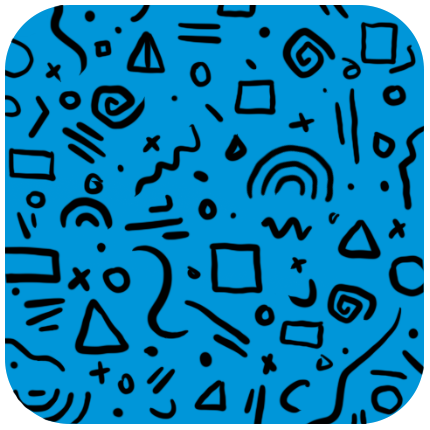
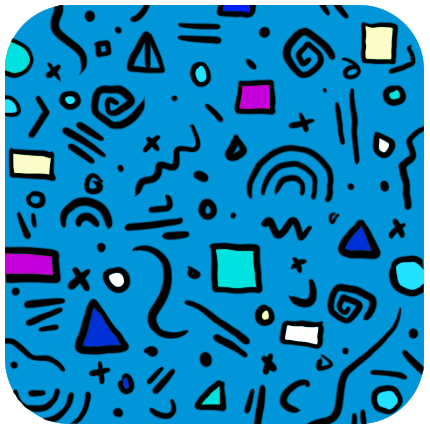
stop timer when game is won, changed layout, added and altered images

diff --git a/src/index.js b/src/index.js
@@ -1,164 +1,170 @@
 document.addEventListener('DOMContentLoaded',() =>{
     
-    //card options
-    const cardArray = [
-        {
-            name: 'car',
-            img: 'src/images/car.png'
-        },
-        {
-            name: 'earbuds',
-            img: 'src/images/earbuds.png'
-        },
-        {
-            name: 'glasses',
-            img: 'src/images/glasses.png'
-        },
-        {
-            name: 'key',
-            img: 'src/images/key.png'
-        },
-        {
-            name: 'phone',
-            img: 'src/images/phone.png'
-        },
-        {
-            name: 'wallet',
-            img: 'src/images/wallet.png'
-        },
+//card options
+const cardArray = [
+    {
+        name: 'car',
+        img: 'images/car.png'
+    },
+    {
+        name: 'earbuds',
+        img: 'images/earbuds.png'
+    },
+    {
+        name: 'glasses',
+        img: 'images/glasses.png'
+    },
+    {
+        name: 'key',
+        img: 'images/key.png'
+    },
+    {
+        name: 'phone',
+        img: 'images/phone.png'
+    },
+    {
+        name: 'wallet',
+        img: 'images/wallet.png'
+    },
 
-        {
-            name: 'car',
-            img: 'src/images/car.png'
-        },
-        {
-            name: 'earbuds',
-            img: 'src/images/earbuds.png'
-        },
-        {
-            name: 'glasses',
-            img: 'src/images/glasses.png'
-        },
-        {
-            name: 'key',
-            img: 'src/images/key.png'
-        },
-        {
-            name: 'phone',
-            img: 'src/images/phone.png'
-        },
-        {
-            name: 'wallet',
-            img: 'src/images/wallet.png'
-        }
-
-    ]
-
-    cardArray.sort(() => 0.5 - Math.random())
-    console.log(cardArray)
-
-    const grid = document.querySelector('.grid')
-    const resultDisplay = document.querySelector('#winner')
-    const attemptsHolder = document.querySelector('.attemptsHolder')
-    const foundHolder = document.querySelector('.foundHolder')
-    const timerHolder = document.querySelector('.timerHolder')
-    const cardsInGame = 12
- 
-    let attempts = 0
-    let foundCards = 0
-    attemptsHolder.textContent = attempts
-    foundHolder.textContent = foundCards
-    timerHolder.innerHTML = "0 mins 0 secs"
-  
-    second = 0;
-    minute = 0;
-    hour = 0;
-    let cardsChosen = []
-    let cardsChosenIds = []
-    let cardsWon = []
-    
-
-    //creating the board
-    function createBoard(){
-        for (let i = 0; i < cardArray.length; i++){
-            const card = document.createElement('img')
-            card.setAttribute('src', 'src/images/blank.png')
-            card.setAttribute('data-id', i)
-            card.addEventListener('click', flipCard)
-            grid.appendChild(card)
-        }
+    {
+        name: 'car',
+        img: 'images/car.png'
+    },
+    {
+        name: 'earbuds',
+        img: 'images/earbuds.png'
+    },
+    {
+        name: 'glasses',
+        img: 'images/glasses.png'
+    },
+    {
+        name: 'key',
+        img: 'images/key.png'
+    },
+    {
+        name: 'phone',
+        img: 'images/phone.png'
+    },
+    {
+        name: 'wallet',
+        img: 'images/wallet.png'
     }
 
-    
+]
+
+cardArray.sort(() => 0.5 - Math.random())
+console.log(cardArray)
+
+const grid = document.querySelector('.grid')
+const resultDisplay = document.querySelector('#winner')
+const attemptsHolder = document.querySelector('.attemptsHolder')
+const foundHolder = document.querySelector('.foundHolder')
+const timerHolder = document.querySelector('.timerHolder')
+const cardsInGame = 12
+
+let attempts = 0
+let foundCards = 0
+attemptsHolder.textContent = attempts
+foundHolder.textContent = foundCards
+timerHolder.innerHTML = "0m 0s"
+
+second = 0;
+minute = 0;
+hour = 0;
+let cardsChosen = []
+let cardsChosenIds = []
+let cardsWon = []
+
+
+//creating the board
+function createBoard(){
+    for (let i = 0; i < cardArray.length; i++){
+        const card = document.createElement('img')
+        card.classList.add('card')
+        card.setAttribute('src', 'images/blank.png')
+        card.setAttribute('data-id', i)
+        card.addEventListener('click', flipCard)
+        grid.appendChild(card)
+    }
+}
+
+
 
 //flip the card
-    function flipCard() {
-        let cardId = this.getAttribute('data-id')
-        cardsChosen.push(cardArray[cardId].name)
-        cardsChosenIds.push(cardId)
-        this.setAttribute('src', cardArray[cardId].img)
-        if (cardsChosen.length === 2){
-            setTimeout(checkForMatch, 500)
-        }
+function flipCard() {
+    let cardId = this.getAttribute('data-id')
+    cardsChosen.push(cardArray[cardId].name)
+    cardsChosenIds.push(cardId)
+    this.setAttribute('src', cardArray[cardId].img)
+    if (cardsChosen.length === 2){
+        setTimeout(checkForMatch, 500)
     }
-
-//check for matches
-    function checkForMatch() {
-        attempts++
-        const cards = document.querySelectorAll('img')
-        const optionOneId = cardsChosenIds[0]
-        const optionTwoId = cardsChosenIds[1]
-
-        if (optionOneId == optionTwoId)
-        {
-            alert('You have clicked the same image!')
-            cards[optionOneId].setAttribute('src', 'src/images/blank.png')
-            cards[optionTwoId].setAttribute('src', 'src/images/blank.png')
-        } else if (cardsChosen[0] == cardsChosen[1]){
-            foundCards++
-            cards[optionOneId].removeEventListener('click', flipCard)
-            cards[optionTwoId].removeEventListener('click', flipCard)
-            cardsWon.push(cardsChosen)
-        } else {
-            cards[optionTwoId].setAttribute('src', 'src/images/blank.png')
-            cards[optionOneId].setAttribute('src', 'src/images/blank.png')
-        }
-  
-        cardsChosen = []
-        cardsChosenIds = []
-        attemptsHolder.textContent = attempts
-        foundHolder.textContent = foundCards
-      
-        if (attempts == 1 || foundCards == 1) {
-            startTimer()
-        }
-
-        var second = 0
-            minute = 0
-            hour = 0
-        var timerHolder = document.querySelector(".timerHolder");
-        var interval;
-        
-        function startTimer() {
-            interval = setInterval(function () {
-               timerHolder.innerHTML = minute + " mins " + second + " secs";
-                 second++;
-        if (second == 60) {
-              minute++;
-                 second = 0;
-    }
-        if (minute == 60) {
-              hour++;
-                 minute = 0;
-    }
-  }, 1000);
 }
-      
-        if (cardsWon.length === cardArray.length/2) {
-             resultDisplay.textContent = 'Congratulations! You won!'
+
+var second = 0
+var minute = 0
+var hour = 0
+var interval
+
+function startTimer() {
+    console.log("timerStarted")
+    interval = setInterval(function () {
+        console.log("timeTimtime")
+        timerHolder.innerHTML = minute + "m " + second + "s"
+        second++
+        if (second == 60) {
+            minute++;
+            second = 0;
         }
-        
+        if (minute == 60) {
+            hour++;
+            minute = 0;
+        }
+    }, 1000);
+}
+
+function stopTimer() {
+    clearInterval(interval)
+}
+
+//check for matches and start timer
+function checkForMatch() {
+    attempts++
+    const cards = document.querySelectorAll('img.card')
+    const optionOneId = cardsChosenIds[0]
+    const optionTwoId = cardsChosenIds[1]
+
+    if (optionOneId == optionTwoId)
+    {
+        alert('You have clicked the same image!')
+        cards[optionOneId].setAttribute('src', 'images/blank.png')
+        cards[optionTwoId].setAttribute('src', 'images/blank.png')
+    } else if (cardsChosen[0] == cardsChosen[1]){
+        foundCards++
+        cards[optionOneId].removeEventListener('click', flipCard)
+        cards[optionTwoId].removeEventListener('click', flipCard)
+        cardsWon.push(cardsChosen)
+    } else {
+        cards[optionTwoId].setAttribute('src', 'images/blank.png')
+        cards[optionOneId].setAttribute('src', 'images/blank.png')
     }
 
-    createBoard()
+    cardsChosen = []
+    cardsChosenIds = []
+    attemptsHolder.textContent = attempts
+    foundHolder.textContent = foundCards
+    
+    if (attempts == 1) {
+        startTimer()
+    }
+
+    if (cardsWon.length === cardArray.length/2) {
+        resultDisplay.textContent = 'Congratulations! You won!'
+        stopTimer()
+    }
+}
+
+createBoard()
 })

diff --git a/src/styles.css b/src/styles.css
@@ -1,11 +1,18 @@
 html,
 body {
-	font-family: "Roboto", sans-serif;
-	text-align: center;
-	color: black;
-	background-color: rgb(255, 255, 255);
+	background: url("seamless-pattern.jpg") #ADD2EB;
+    background-repeat: repeat;
+    height: 100vh;
+    font-family: 'Roboto', sans-serif;
+	color: #0C2427;
 	display: flex;
 	justify-content: center;
+}
+
+.centered {
+    margin-left: auto;
+    margin-right: auto;
+    text-align: center;
 }
 
 .grid {
@@ -15,12 +22,42 @@ body {
     justify-content: space-between;
     width: 650px;
     height: 500px;
-    border: none;  
+    border: none;
+    padding: 25px;
+    border-radius: 25px;
+    background-color: white;
 }
 
-img {
+#winner {
+    font-size: 25px;
+    font-weight: 600;
+}
+
+img.card {
     width: 150px;
     height: 150px;
-	filter: drop-shadow(0 3px 5px rgb(147, 147, 168));
+	filter: drop-shadow(0 3px 5px rgb(184, 184, 209));
 }
 
+.edition {
+    font-size: 20px;
+    font-weight: 600;
+}
+
+
+
+.container {
+	background: #fff;
+	border-radius: 10px;
+	color: #000;
+    width: 400px;
+    height: auto;
+	padding: 6px;
+    margin-top: 6px;
+    margin-bottom: 6px;
+}
+
+
+.timer {
+	font-size: 1em;
+}
